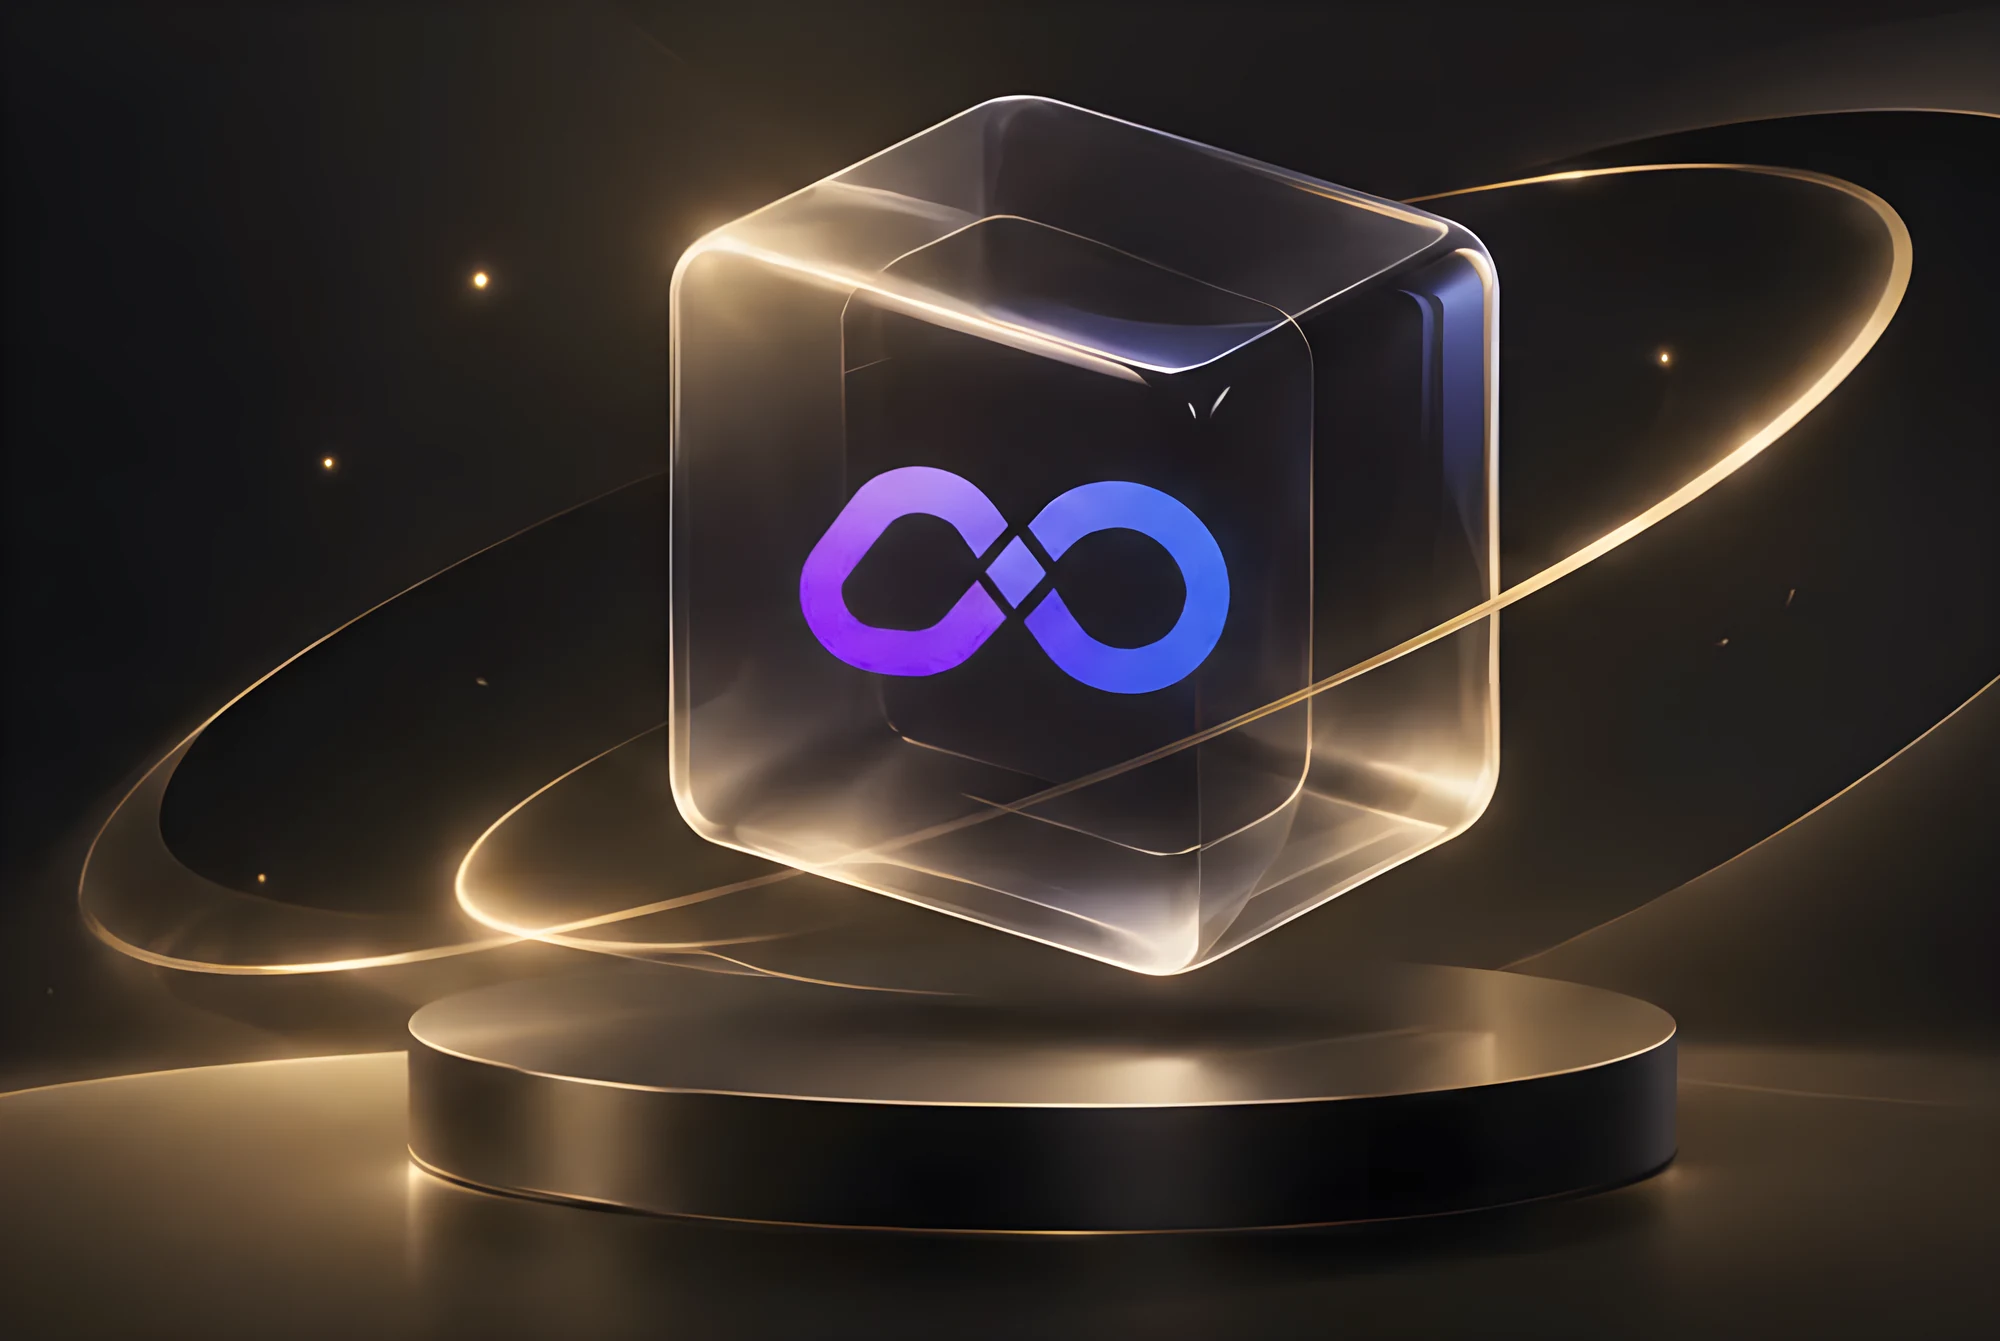
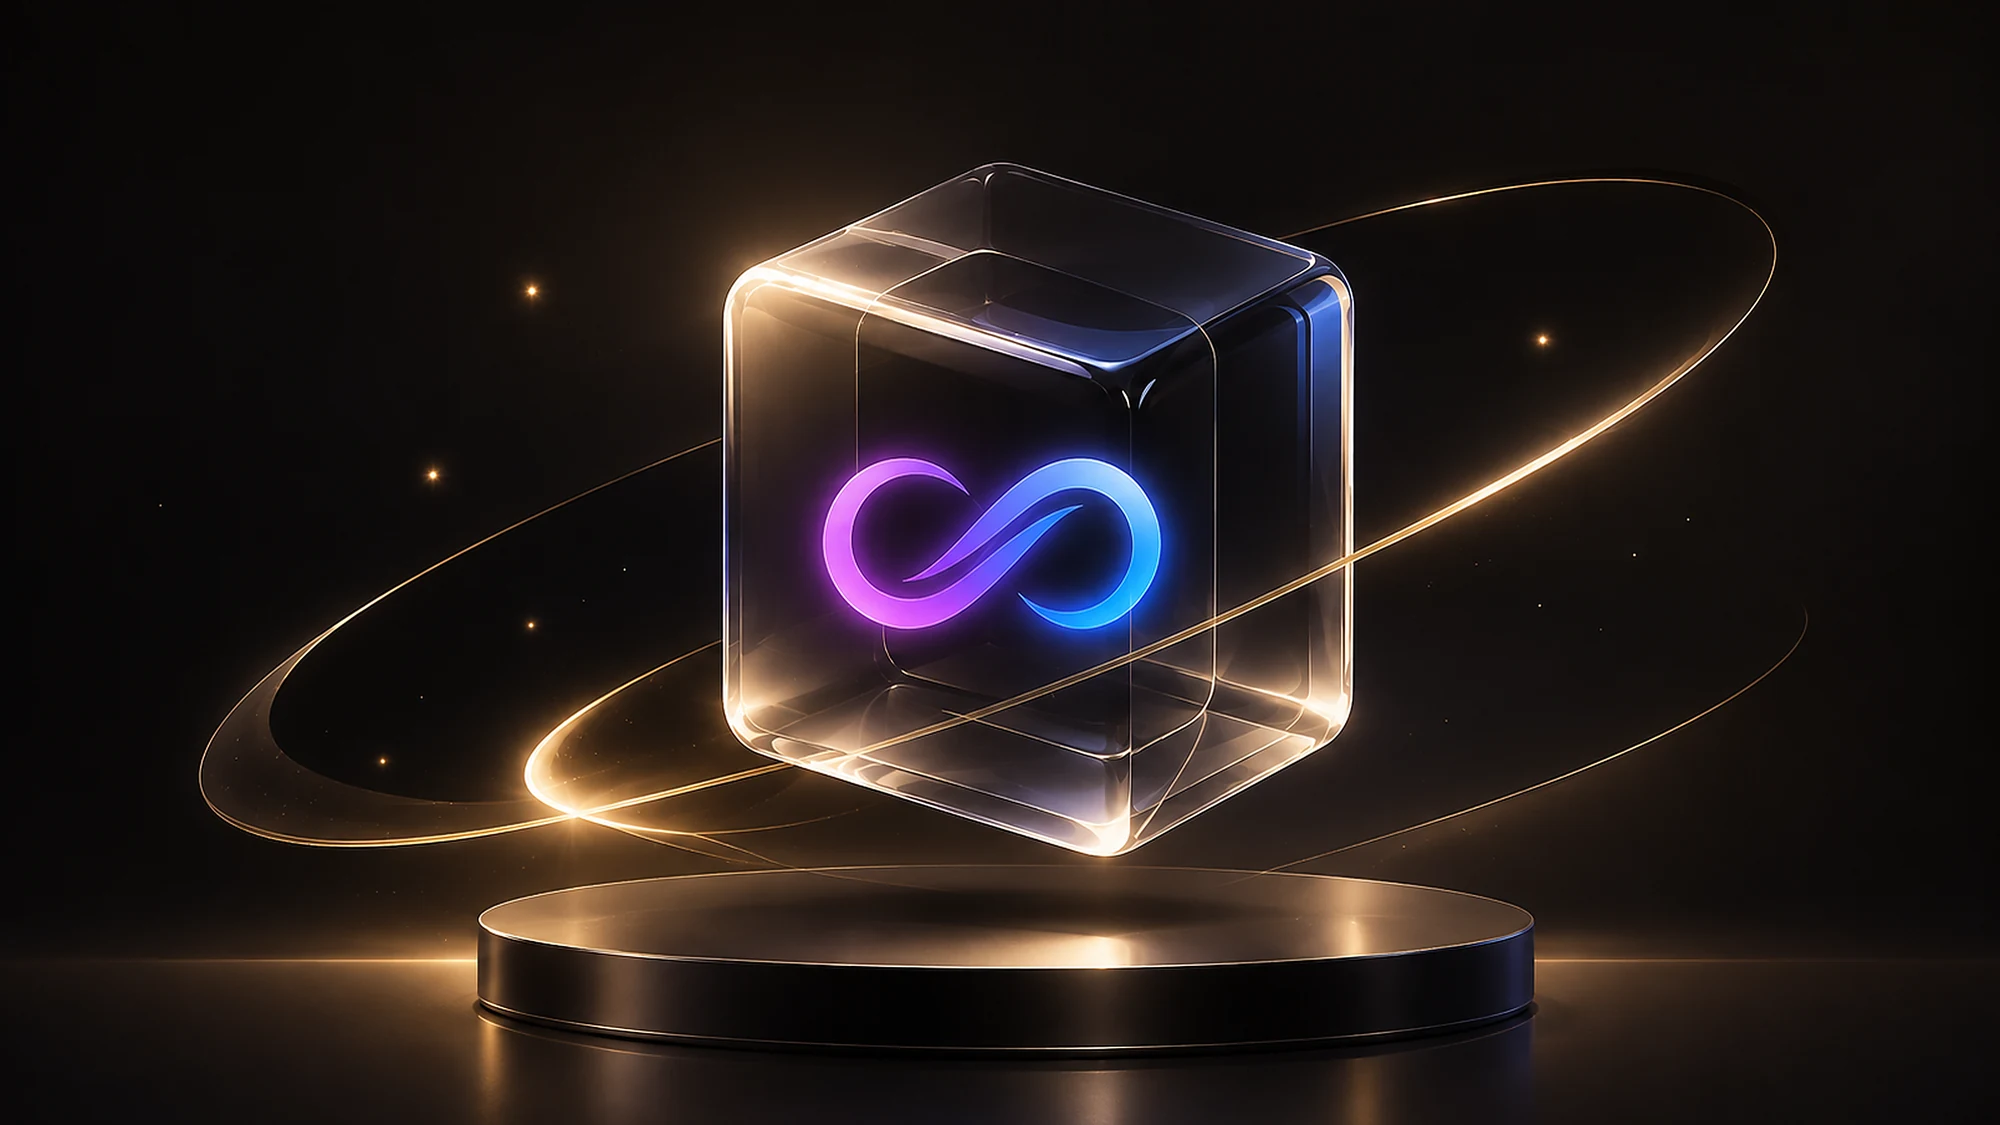
feat(web): new 4K glass-cube hero image (3840x2160)
Claude-Session: https://claude.ai/code/session_01YXhf6cfXN56mqgUG8QRxMq

diff --git a/web/src/features/home/components/sections/quantum-landing.tsx b/web/src/features/home/components/sections/quantum-landing.tsx
@@ -174,7 +174,7 @@ export function QuantumLanding(props: QuantumLandingProps) {
                 srcSet={`${heroCube2000} 2000w, ${heroCube3840} 3840w`}
                 sizes='(min-width: 1024px) 56vw, 110vw'
                 width={2000}
-                height={1341}
+                height={1125}
                 alt=''
                 fetchPriority='high'
                 decoding='async'
